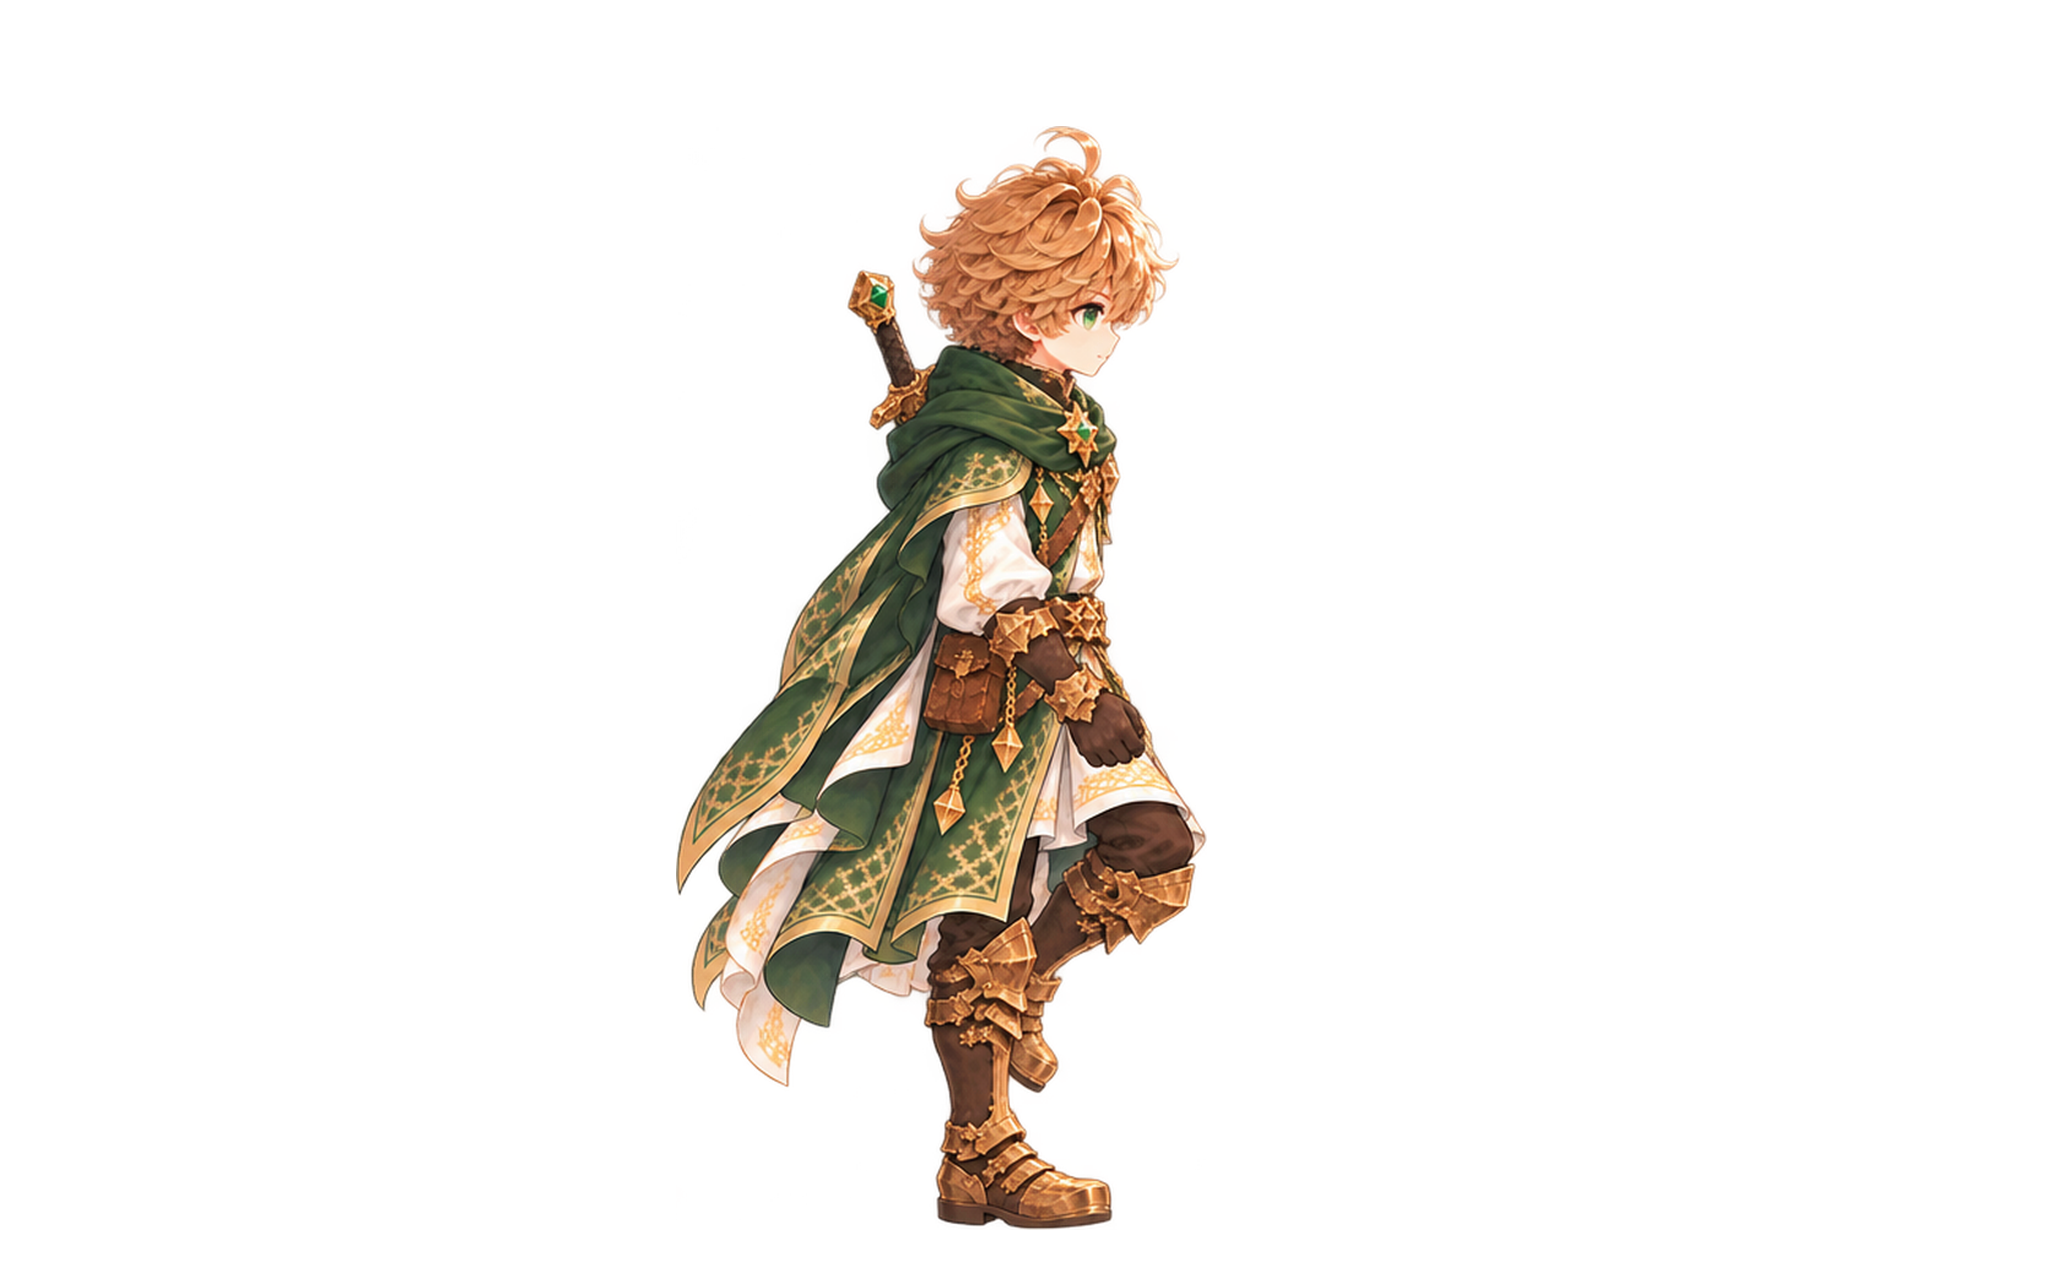
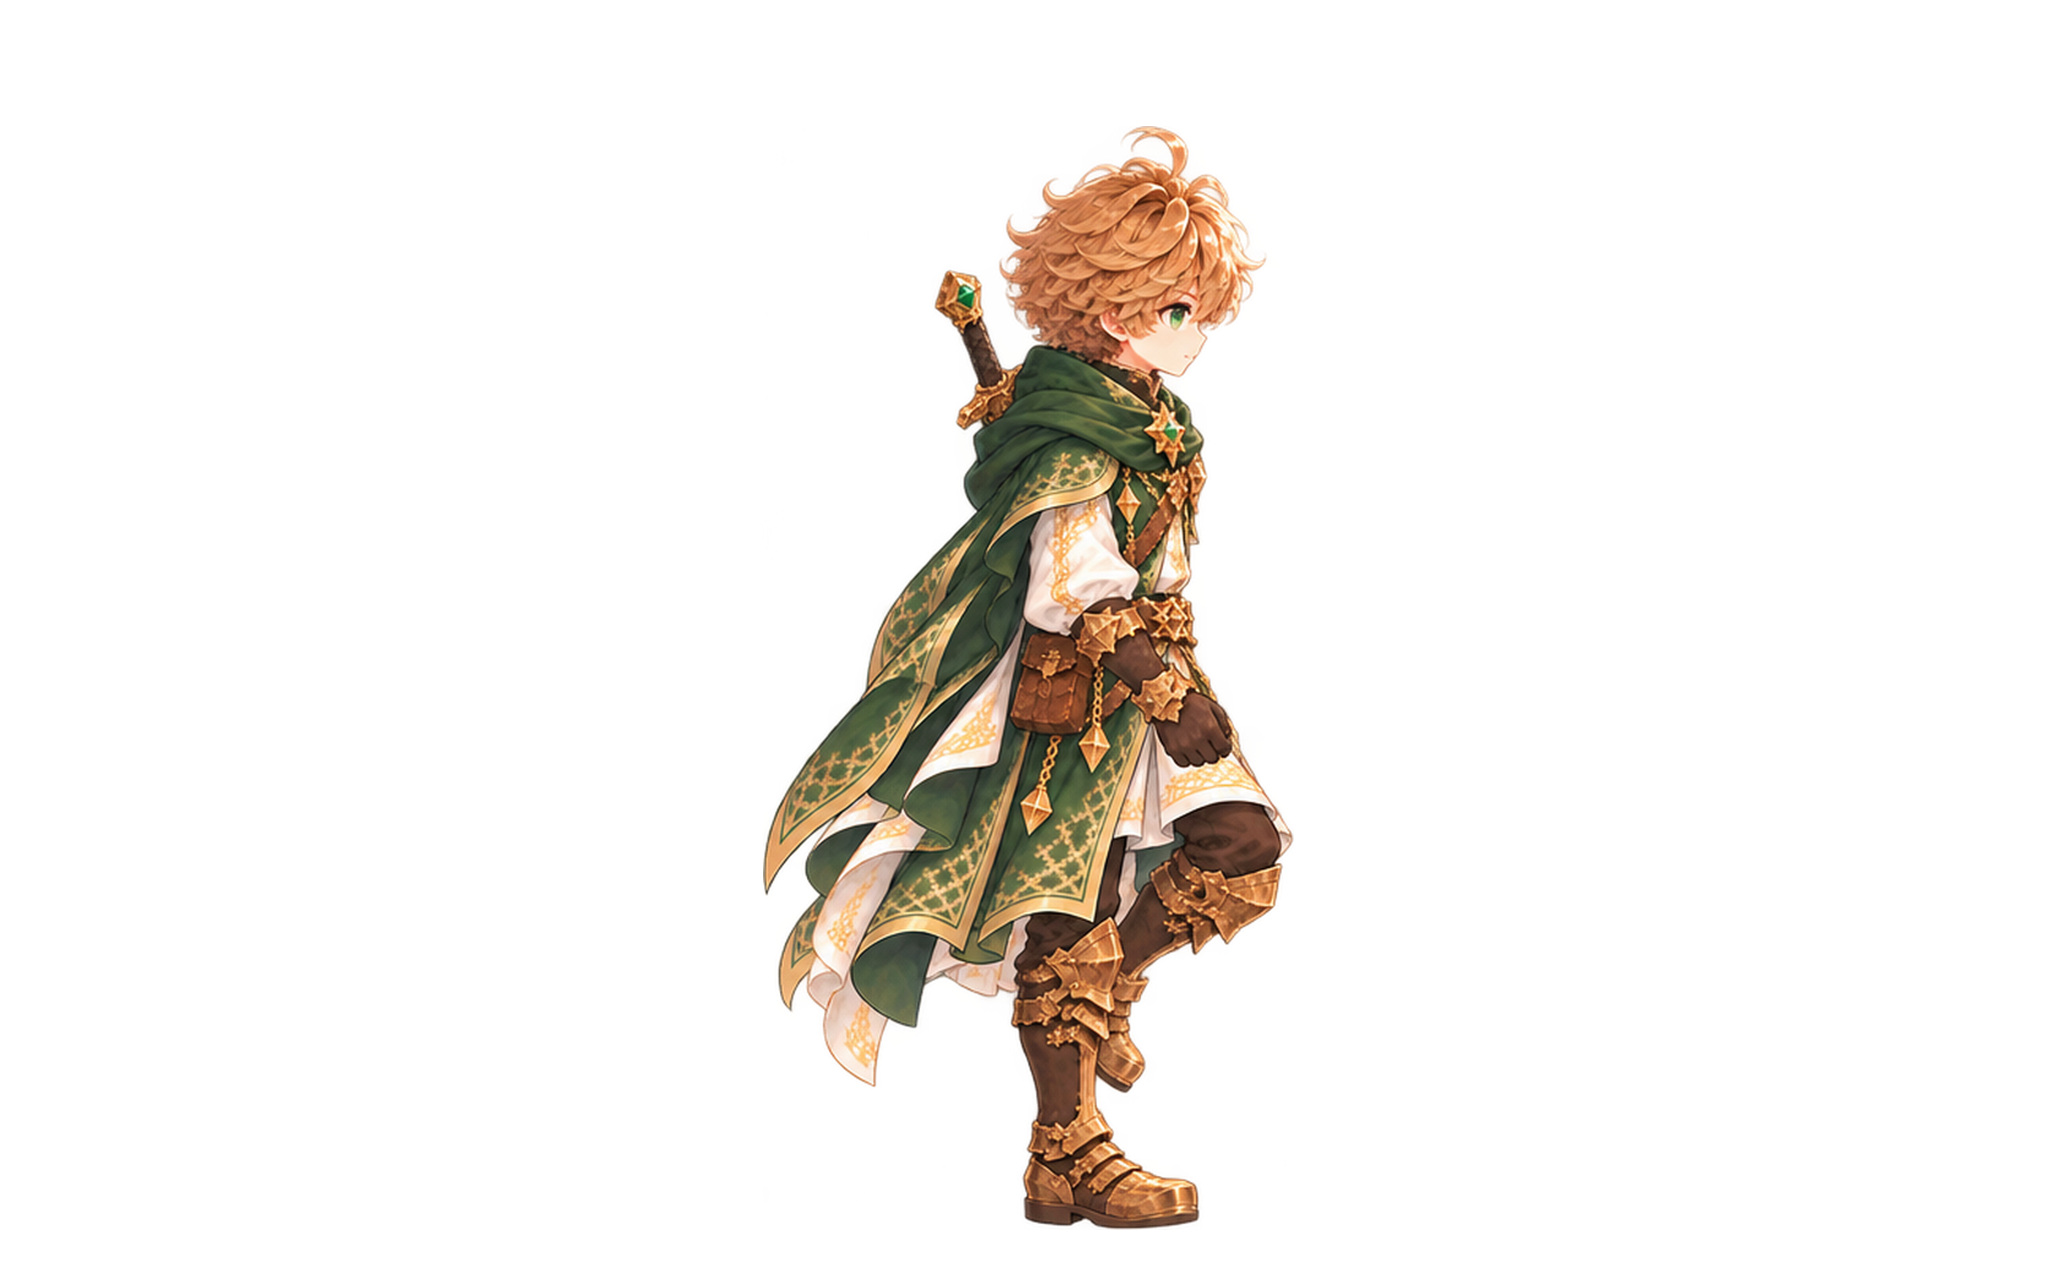
feat(aidan): side idle left/right from delivered art; re-register side walk to new idle
Claude-Session: https://claude.ai/code/session_01KtAepaq115Lcetj5TqkPJk

Changed region(s): [[0.3125, 0.0938, 0.625, 0.9688]]

diff --git a/js/field/aidan-field-assets.js b/js/field/aidan-field-assets.js
@@ -116,14 +116,14 @@
   "scale": 0.0625
  },
  "aidan_idle_left": {
-  "path": "img/field/characters/aidan/aidan_idle_left.png?v=8fb04068",
+  "path": "img/field/characters/aidan/aidan_idle_left.png?v=c3bc0082",
   "width": 2048,
   "height": 1280,
   "bounds": [
-   817,
-   154,
-   748,
-   1076
+   660,
+   126,
+   667,
+   1104
   ],
   "anchor": [
    1024,
@@ -132,11 +132,11 @@
   "scale": 0.0625
  },
  "aidan_walk_left_01": {
-  "path": "img/field/characters/aidan/aidan_walk_left_01.png?v=0c5711d5",
+  "path": "img/field/characters/aidan/aidan_walk_left_01.png?v=d453729e",
   "width": 2048,
   "height": 1280,
   "bounds": [
-   862,
+   823,
    126,
    623,
    1104
@@ -148,11 +148,11 @@
   "scale": 0.0625
  },
  "aidan_walk_left_02": {
-  "path": "img/field/characters/aidan/aidan_walk_left_02.png?v=87c87672",
+  "path": "img/field/characters/aidan/aidan_walk_left_02.png?v=336ee5e8",
   "width": 2048,
   "height": 1280,
   "bounds": [
-   932,
+   893,
    126,
    512,
    1104
@@ -164,11 +164,11 @@
   "scale": 0.0625
  },
  "aidan_walk_left_03": {
-  "path": "img/field/characters/aidan/aidan_walk_left_03.png?v=483da079",
+  "path": "img/field/characters/aidan/aidan_walk_left_03.png?v=9fae61f0",
   "width": 2048,
   "height": 1280,
   "bounds": [
-   905,
+   866,
    126,
    557,
    1104
@@ -180,11 +180,11 @@
   "scale": 0.0625
  },
  "aidan_walk_left_04": {
-  "path": "img/field/characters/aidan/aidan_walk_left_04.png?v=822bfa2b",
+  "path": "img/field/characters/aidan/aidan_walk_left_04.png?v=852f9183",
   "width": 2048,
   "height": 1280,
   "bounds": [
-   960,
+   921,
    126,
    492,
    1104
@@ -196,14 +196,14 @@
   "scale": 0.0625
  },
  "aidan_idle_right": {
-  "path": "img/field/characters/aidan/aidan_idle_right.png?v=66dff837",
+  "path": "img/field/characters/aidan/aidan_idle_right.png?v=b26cdaeb",
   "width": 2048,
   "height": 1280,
   "bounds": [
-   547,
-   155,
-   746,
-   1075
+   863,
+   126,
+   664,
+   1104
   ],
   "anchor": [
    1024,
@@ -212,11 +212,11 @@
   "scale": 0.0625
  },
  "aidan_walk_right_01": {
-  "path": "img/field/characters/aidan/aidan_walk_right_01.png?v=4d211bee",
+  "path": "img/field/characters/aidan/aidan_walk_right_01.png?v=239a2e0c",
   "width": 2048,
   "height": 1280,
   "bounds": [
-   646,
+   733,
    126,
    622,
    1104
@@ -228,11 +228,11 @@
   "scale": 0.0625
  },
  "aidan_walk_right_02": {
-  "path": "img/field/characters/aidan/aidan_walk_right_02.png?v=eea0d238",
+  "path": "img/field/characters/aidan/aidan_walk_right_02.png?v=c0474f60",
   "width": 2048,
   "height": 1280,
   "bounds": [
-   686,
+   773,
    126,
    553,
    1103
@@ -244,11 +244,11 @@
   "scale": 0.0625
  },
  "aidan_walk_right_03": {
-  "path": "img/field/characters/aidan/aidan_walk_right_03.png?v=dd423665",
+  "path": "img/field/characters/aidan/aidan_walk_right_03.png?v=6e275fa0",
   "width": 2048,
   "height": 1280,
   "bounds": [
-   676,
+   763,
    126,
    531,
    1104
@@ -260,11 +260,11 @@
   "scale": 0.0625
  },
  "aidan_walk_right_04": {
-  "path": "img/field/characters/aidan/aidan_walk_right_04.png?v=95d11f9f",
+  "path": "img/field/characters/aidan/aidan_walk_right_04.png?v=4b795b21",
   "width": 2048,
   "height": 1280,
   "bounds": [
-   669,
+   756,
    126,
    626,
    1104
